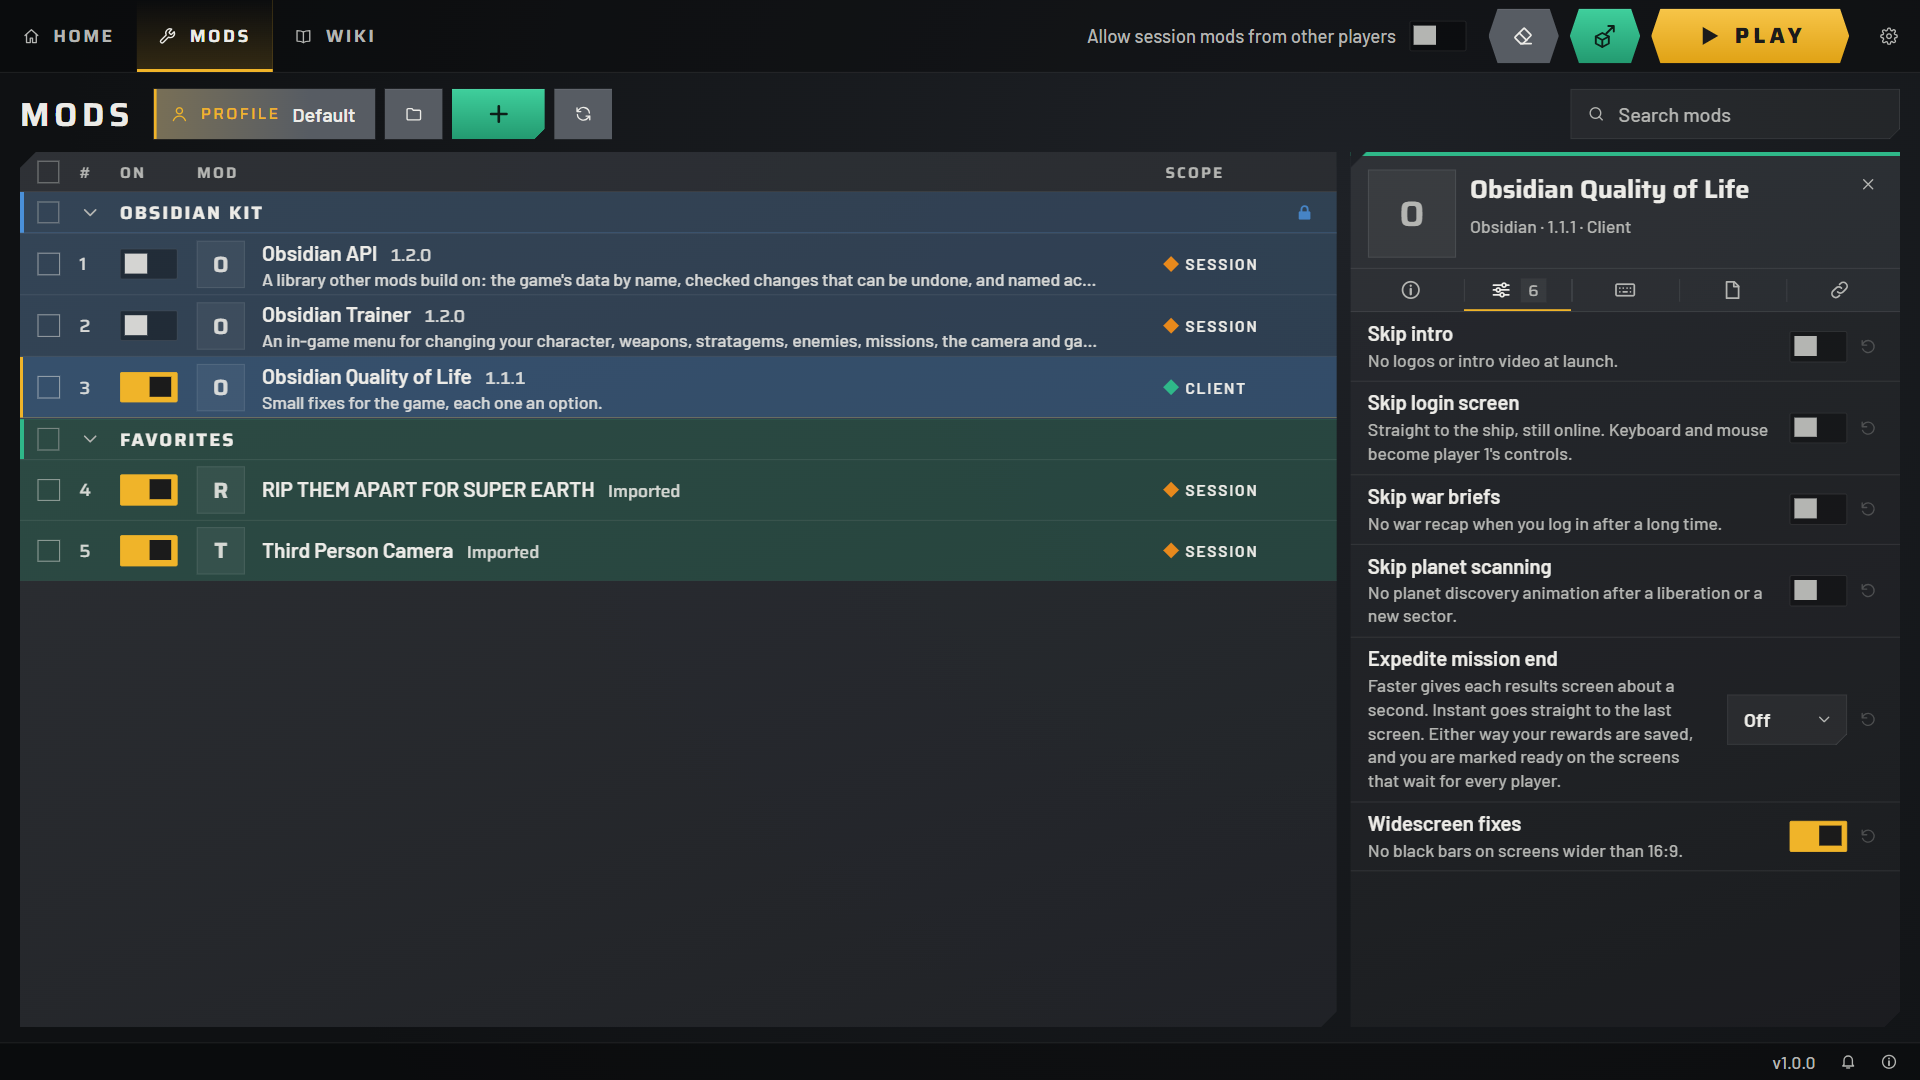
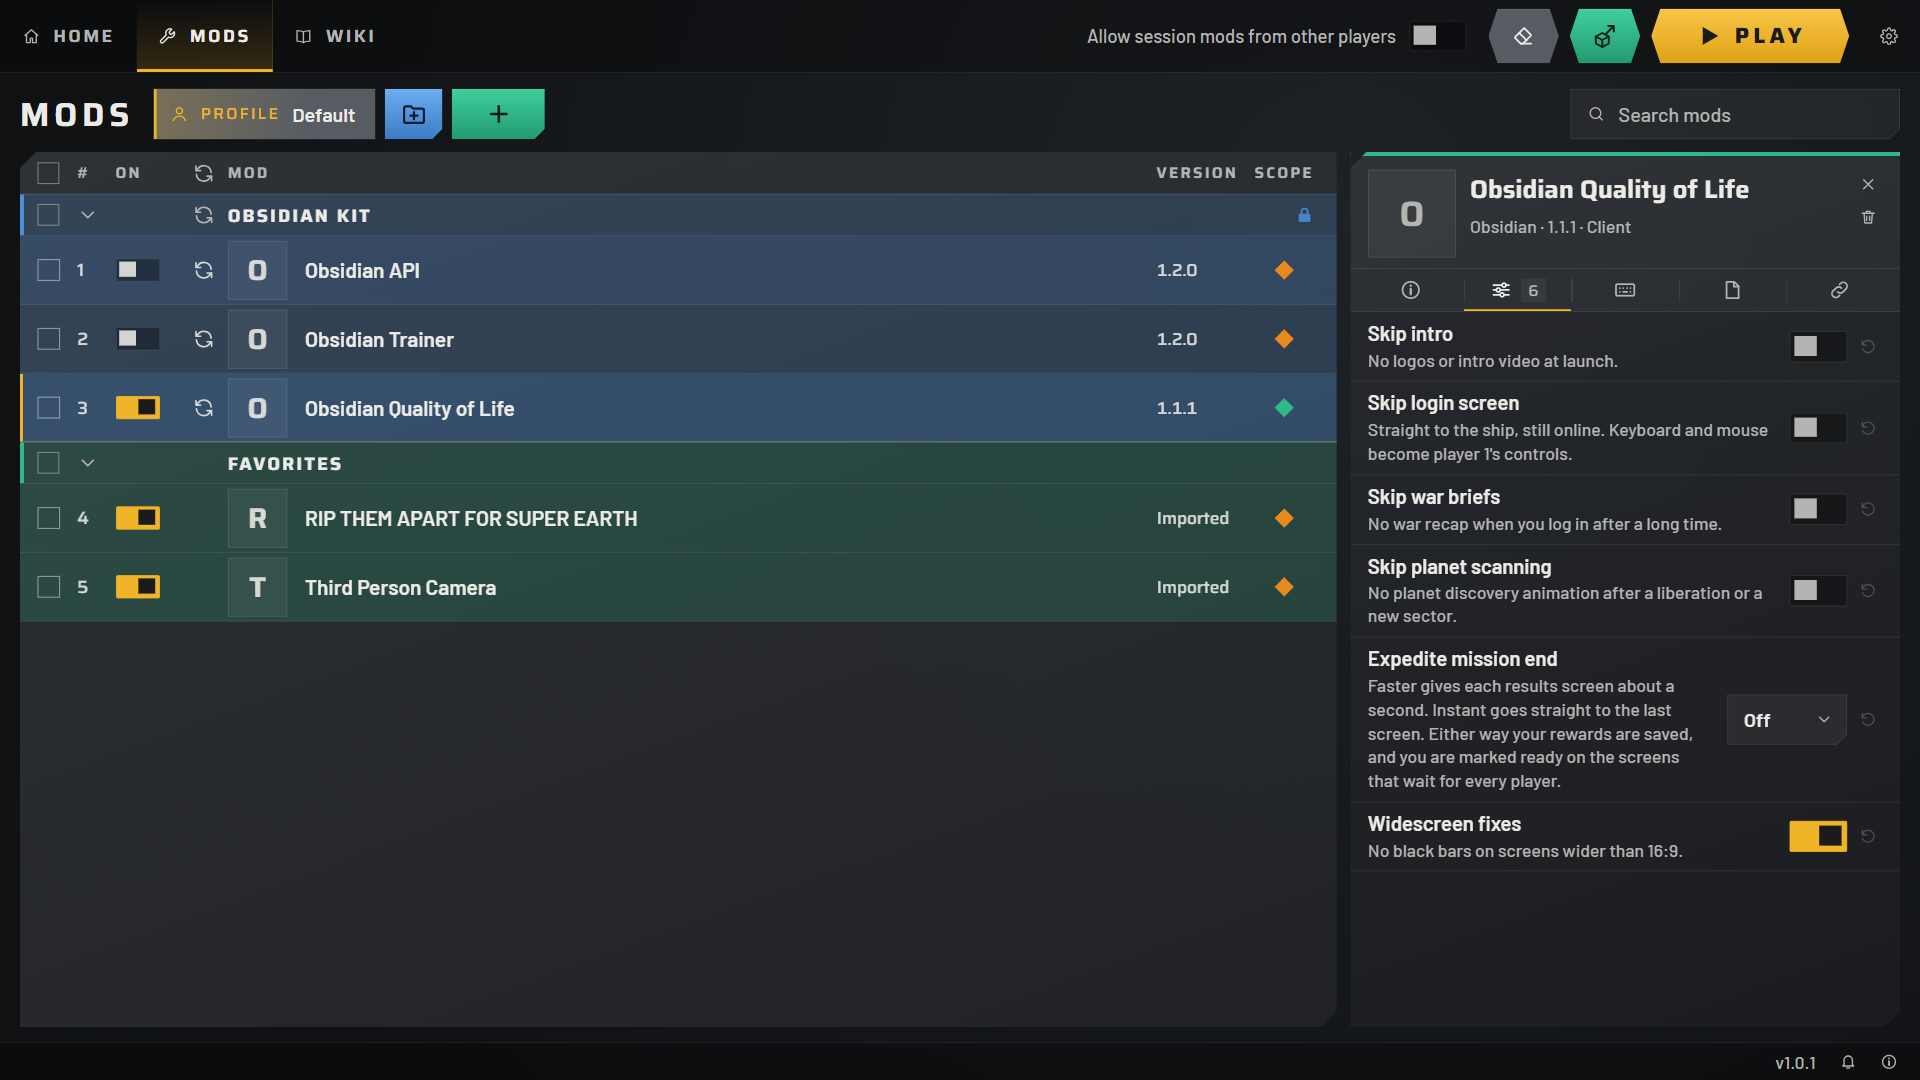
Prepare 1.0.1: version, notes, README and shots
The README gets one row of links, Command Line as a folded section of
its own, and a shorter Questions and Feedback. The three shots show the
new list. latest.json is pinned to its release through tagName.

diff --git a/README.md b/README.md
@@ -24,24 +24,20 @@
 
 <p align="center">
   <a href="https://github.com/Alomare/ObsidianModManager/releases/latest"><b>Download</b></a> ·
+  <a href="#features">Features</a> ·
+  <a href="#how-it-works">How It Works</a> ·
   <a href="#how-to-use">How to Use</a> ·
-  <a href="https://github.com/Alomare/ObsidianModManager/issues">Report a Bug</a>
+  <a href="#making-mods">Making Mods</a> ·
+  <a href="#command-line">Command Line</a> ·
+  <a href="#questions-and-feedback">Questions and Feedback</a> ·
+  <a href="#contributing">Contributing</a> ·
+  <a href="#license">License</a>
 </p>
 
 <br>
 
 <p align="center">
   <img src="assets/readme/home.png" alt="The Home tab over HELLDIVERS cover art of four Helldivers fighting Bugs, with the logo and name at the top left, and links to Nexus, the Discord, sponsoring and the source code at the bottom left" width="100%">
-</p>
-
-<p align="center">
-  <a href="#features">Features</a> ·
-  <a href="#how-it-works">How It Works</a> ·
-  <a href="#how-to-use">How to Use</a> ·
-  <a href="#making-mods">Making Mods</a> ·
-  <a href="#questions-and-feedback">Questions and Feedback</a> ·
-  <a href="#contributing">Contributing</a> ·
-  <a href="#license">License</a>
 </p>
 
 <br>
@@ -52,7 +48,7 @@
 
 The mod library. Turn mods on and off, drag them into the load order, sort them into folders, and change options and keys for each mod. Conflicts show which mods change the same thing, and profiles keep separate sets of mods and settings. Mods that name a GitHub repository update from inside the app, and old mods that replace whole game files import like any other.
 
-<img src="assets/readme/mods.png" alt="The Mods tab: the Obsidian Kit and Favorites folders, each mod with a switch, a place in the load order and a scope, and the options of Obsidian Quality of Life on the right" width="100%">
+<img src="assets/readme/mods.png" alt="The Mods tab: the Obsidian Kit and Favorites folders, each mod with a switch, a place in the load order, a version and a scope diamond, and the options of Obsidian Quality of Life on the right" width="100%">
 
 ### 📖 Wiki
 
@@ -75,32 +71,6 @@ An in-game window, opened with F6, for your character, weapons, stratagems, enem
 #### [Obsidian API](https://github.com/Alomare/ObsidianAPI)
 
 A library other mods can build on. It turns on with the Trainer.
-
-The Trainer and Obsidian API have been tested solo and offline, but not yet with a second player.
-
-### ⌨ Command Line
-
-`obsidian` does the same work from a terminal, on the same data. It isn't in the downloads: build it with `cargo build --release -p obsidian-core`, and run `tools\build-luajit.cmd` once for the LuaJIT 2.0 compiler that turns mod scripts into code the game can run. Run it with the game closed:
-
-```
-obsidian import <mod folder or .zip>   add a mod to the library (old whole-file mods work too)
-obsidian list                          mods in load order, on or off
-obsidian enable <id> / disable <id>    choose what to play with
-obsidian order <id>...                 put these mods first; later mods win conflicts
-obsidian conflicts                     show which mods change the same thing
-obsidian deploy                        put the enabled mods into the game
-obsidian purge                         take them out again
-obsidian status                        game build, what is deployed
-obsidian consent on|off                play session mods with other Obsidian users who allow them too
-obsidian set <id> <option> <value>     change a mod option
-obsidian remove <id>                   delete a mod from the library
-obsidian key <id> <keybind> <key>      change a mod key
-obsidian updates                       ask GitHub for new versions of the mods that name a repository
-obsidian update [<id>...]              install new versions from GitHub
-obsidian profile list|use|new <name>   switch between named sets of mods and settings
-```
-
-`--game <folder>` points at another install, when Steam can't find it.
 
 ### 🌐 Supported Languages
 
@@ -135,8 +105,6 @@ To go back to vanilla, close the game and press **Purge**. Your library and prof
 | The `x64-setup.exe` file | The installer. It checks for new versions at startup and installs them when you say so. **Updates** in Settings changes that. |
 | `ObsidianModManager-<version>-portable.zip` | The portable copy, with your library in a `data` folder beside the app. Unzip it anywhere and start `Obsidian.exe`. New versions are downloaded by hand. |
 
-Nexus Mods has the installer too. Each file there waits for manual approval, so it may be an older version. That's fine: install it, and Obsidian offers the newest version when it starts.
-
 The window needs the Microsoft Edge WebView2 Runtime. The installer adds it when it's missing. For the portable copy, Windows 11 has it, nearly every Windows 10 PC has it too, and the rest can get [Microsoft's free download](https://developer.microsoft.com/microsoft-edge/webview2/).
 
 ## Making Mods
@@ -145,21 +113,40 @@ A mod is a folder with an `obsidian.json` file that describes it, plus the files
 
 The Making Mods guides in the Wiki start with [Your First Mod](app/src/wiki/40-first-mod.md), then cover [the manifest](app/src/wiki/42-manifest.md), [options and keys](app/src/wiki/44-options-and-keys.md), the [Loader API](app/src/wiki/46-loader-api.md), [Obsidian API](app/src/wiki/47-obsidian-api.md), [session mods](app/src/wiki/48-session-mods.md), [replacing game files](app/src/wiki/50-resources.md) and [sharing a mod](app/src/wiki/52-sharing.md). A GitHub repository in the `source` field lets players update the mod from inside Obsidian.
 
-## Questions and Feedback
+## Command Line
 
-### Asking for Help
+`obsidian` does the same work from a terminal, on the same data. It isn't in the downloads: build it with `cargo build --release -p obsidian-core`, and run `tools\build-luajit.cmd` once for the LuaJIT 2.0 compiler that turns mod scripts into code the game can run. Run it with the game closed.
+
+<details>
+<summary>Commands</summary>
+
+```
+obsidian import <mod folder or .zip>   add a mod to the library (old whole-file mods work too)
+obsidian list                          mods in load order, on or off
+obsidian enable <id> / disable <id>    choose what to play with
+obsidian order <id>...                 put these mods first; later mods win conflicts
+obsidian conflicts                     show which mods change the same thing
+obsidian deploy                        put the enabled mods into the game
+obsidian purge                         take them out again
+obsidian status                        game build, what is deployed
+obsidian consent on|off                play session mods with other Obsidian users who allow them too
+obsidian set <id> <option> <value>     change a mod option
+obsidian remove <id>                   delete a mod from the library
+obsidian key <id> <keybind> <key>      change a mod key
+obsidian updates                       ask GitHub for new versions of the mods that name a repository
+obsidian update [<id>...]              install new versions from GitHub
+obsidian profile list|use|new <name>   switch between named sets of mods and settings
+```
+
+</details>
+
+`--game <folder>` points at another install, when Steam can't find it.
+
+## Questions and Feedback
 
 Ask on the [Discord](https://dsc.gg/hd1modding) how to do something, or show what you made. Refer to the in-app Wiki before doing so.
 
-### Reporting a Bug
-
-Open an [issue](https://github.com/Alomare/ObsidianModManager/issues/new) with what you did and what happened. **Copy report** in Settings, under Data, gives you the versions, the mods that were on and the end of the game's log, without your Windows account name.
-
-### Suggesting an Idea
-
-Open an [issue](https://github.com/Alomare/ObsidianModManager/issues/new) with what you'd like Obsidian to do.
-
-### Supporting Obsidian
+To report a bug or suggest an idea, open an [issue](https://github.com/Alomare/ObsidianModManager/issues/new). For a bug, say what you did and what happened. **Copy report** in Settings, under Data, gives you the versions, the mods that were on and the end of the game log, without your Windows account name.
 
 Obsidian is 100% free, no caveats. If you'd like to support it, buy me a [Ko-fi](https://ko-fi.com/alomare)!
 

diff --git a/docs/releases/1.0.1.md b/docs/releases/1.0.1.md
@@ -1,0 +1,12 @@
+### Changes
+
+- Update checks moved to a column between On and Mod, with a button for each mod, each folder and the whole list.
+- Mod versions have their own column again, before Scope.
+- The Scope column shows only the diamond. Hover over it for the name.
+- Mod descriptions left the list and show when you hover over a mod.
+- Bigger mod images and smaller switches in the list.
+- Remove in a mod's details is now a bin under the close button.
+- Turn On and Turn Off in the bar for checked mods are icons.
+- Create Folder is blue, with a folder outline and a plus inside.
+- Purge, Deploy and Play send a wave of color across the top bar.
+- The installer shows the Obsidian logo, and the app icon fills the taskbar.
